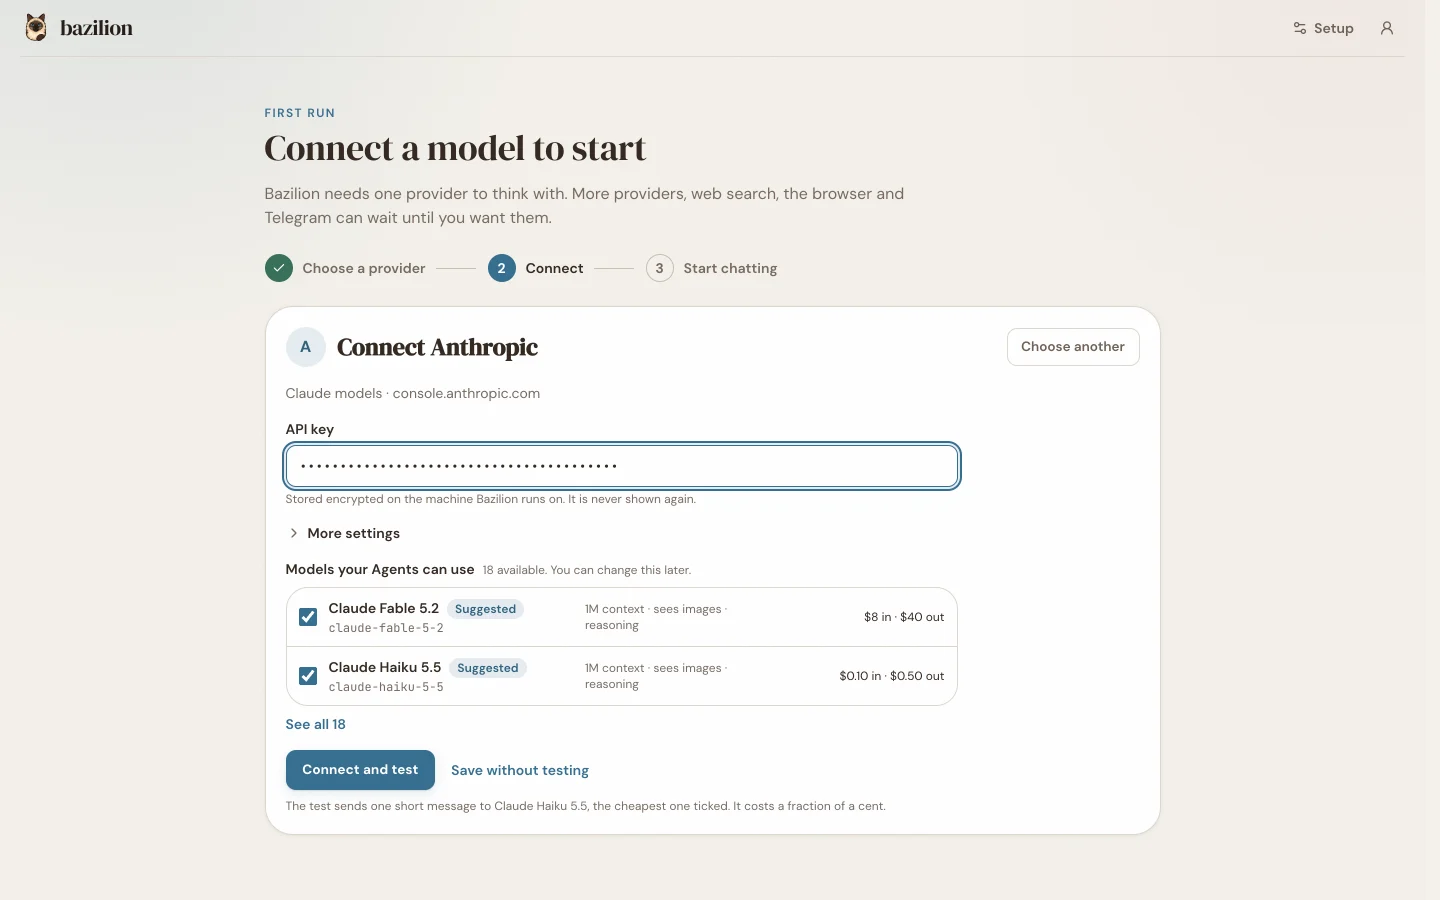
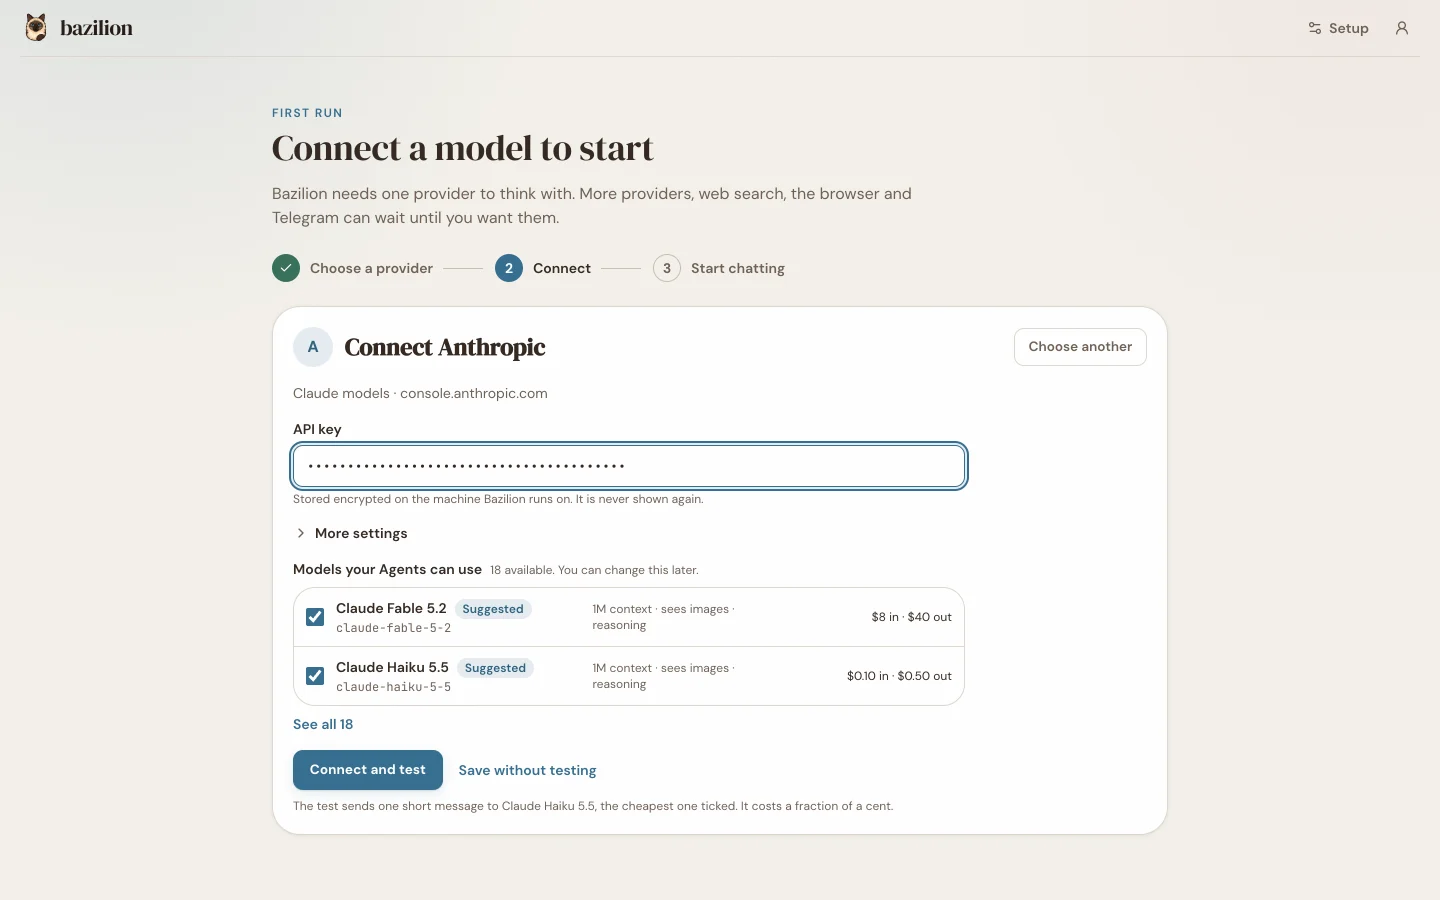
Bazilion 0.56.0: usage and cost, failed turns in Attention, conversation search
What's new gets 0.56.0 and drops 0.52.0; the current-release references move to 0.56.0; the
tour, Attention notifications, conversations, results and operations pages describe the new
features. Every product picture is taken again (grey text is darker), with two new ones:
usage and search.

diff --git a/src/content/docs/docs/whats-new.md b/src/content/docs/docs/whats-new.md
@@ -1,15 +1,81 @@
 ---
 title: What's new
-description: The latest four Bazilion releases, newest first; Bazilion 0.55.0 bundles Pi 1.6.0.
+description: The latest four Bazilion releases, newest first; Bazilion 0.56.0 bundles Pi 1.6.0.
 ---
 
 The latest four releases, newest first. Older releases are in
 [GitHub Releases](https://github.com/rullopat/bazilion/releases). Each section describes its own
 release; the rest of the documentation describes the current one.
 
+## Bazilion 0.56.0
+
+Published **2026-11-23**. Nothing goes wrong unnoticed: **Usage** shows what your Agents' model
+calls cost, per day, Team, Agent, model and conversation; a background turn that fails is in
+Attention; and **Jump to** searches your conversations. Checks on CI now compare pictures of the
+web UI and scan every page for accessibility, and what they found is fixed. The embedded Pi
+engine stays at 1.6.0. See the
+[GitHub release](https://github.com/rullopat/bazilion/releases/tag/v0.56.0) and
+[Usage in the web interface](/docs/web-interface/#manage).
+
+![Manage, Usage: $96.57 spent in the last 30 days, 23M tokens of which 5.8M on a subscription, a bar per day, and the totals by Team.](/screenshots/usage.webp)
+
+### Upgrade: install and start again
+
+The database schema is unchanged, so a 0.26, 0.27 or 0.50 to 0.55 home opens as it is. Stop the
+daemon, then:
+
+```sh
+npm install -g bazilion@0.56.0
+bazilion dashboard
+```
+
+Attention notifications in Telegram keep the kinds you chose: to be told about failed turns,
+tick **Failed background turns** under **Setup → Telegram**.
+
+### Added
+
+- **Usage and cost.** **Manage → Usage** and `bazilion usage` show tokens and dollars per day,
+  Team, Agent and model, for today, 7, 30 or 90 days or everything, with a bar per day you can
+  read with the arrow keys. Each conversation's use is under its title in the conversation menu
+  and in `bazilion conversation list`. The cost is what the provider billed when it says
+  (OpenRouter does), otherwise Pi's catalog price, marked as an estimate. A ChatGPT plan, Copilot
+  and the Qwen and Xiaomi MiMo token plans count in tokens only, as do models on your computer.
+- **Failed background turns in Attention.** A follow-up sent from the web, a terminal or
+  Telegram, or a turn for new mail, that fails is listed once per Agent and cause, so an expired
+  key is one line however many turns it stopped. A later failure of the same cause opens it again.
+- **Search your conversations.** Three characters or more in **Jump to** list the messages holding
+  every word, with the words marked; one opens its conversation at that message.
+  `bazilion conversation search` does the same in a terminal. A stored key is never found.
+- **When a schedule runs next**, in the Schedules sheet and `bazilion trigger list`.
+- **Text previews for every kind of text file** in Files, and a text file's first lines on its
+  tile. HTML and SVG stay download-only.
+
+![Jump to with "dark mode" typed: messages from Pixel, Quill, Dev and Mira that hold both words, each with its Agent and conversation.](/screenshots/search.webp)
+
+### Changed
+
+- **Easier to read and to use without a mouse.** Grey text is a step darker, and code and table
+  headers use the darker ink, so everything reaches 4.5:1 contrast. Controls say what they show
+  to a screen reader, buttons no longer sit inside fold-outs, and links among a row's facts are
+  underlined.
+- **Agent templates** cannot have a blank name.
+
+### Fixed
+
+- In the conversation header, a long conversation title no longer squeezes the Agent's name to
+  one letter.
+- Team messages sent in the same millisecond keep the order they were sent in.
+
+### Limits
+
+- Usage counts what conversations used: learning reviews, provider tests and generated images
+  are not counted, and a deleted Agent's use goes with it.
+- A failed turn for new mail is kept in the daemon's memory: a restart forgets it.
+- Search looks at what a conversation shows; tool output is not searched.
+
 ## Bazilion 0.55.0
 
-Published **2026-11-22**. What an Agent waits on now reaches you at once, and wherever you are.
+Published **2026-11-22**. What an Agent waits on came to reach you at once, and wherever you are.
 The web UI is pushed every change instead of asking every few seconds, so a question shows the
 moment it is asked. The browser can show a desktop notification when Bazilion is in the
 background, a command waiting for your approval can be decided from Telegram, and on a phone the
@@ -19,7 +85,7 @@ See the [GitHub release](https://github.com/rullopat/bazilion/releases/tag/v0.55
 
 ### Upgrade: install and start again
 
-The database schema is unchanged, so a 0.26, 0.27 or 0.50 to 0.54 home opens as it is. Stop the
+The database schema was unchanged, so a 0.26, 0.27 or 0.50 to 0.54 home opened as it was. Stop the
 daemon, then:
 
 ```sh
@@ -240,76 +306,3 @@ they had. The current commands are in [Upgrade to 0.26.0](/docs/getting-started/
 - The Teams list did not say whether a Team's folder links to a project.
 - The new pages were checked by hand and by script in Chrome on macOS with a stand-in model
   server; the automated tests covered their logic on Linux but did not drive a browser.
-
-## Bazilion 0.52.0
-
-Published **2026-11-21**. The Services page became **Tools**: one card per tool, settings that
-are checked before they are stored, and one Save per card. Model menus began to show names. The
-embedded Pi engine stayed at 1.5.2. See the
-[GitHub release](https://github.com/rullopat/bazilion/releases/tag/v0.52.0) and
-[setting the tools](/docs/tools/#setting-the-tools).
-
-![Setup, Tools: the Web search card with its five choices and a saved Brave key, the Web pages card and the Browser card with its switch and two choices.](/screenshots/tools.webp)
-
-### Upgrade: install and start again
-
-The database schema was unchanged, so a 0.26, 0.27, 0.50 or 0.51 home opened as it was. Stored
-settings were read as before. A value that an older version stored and the daemon cannot
-use, such as a mistyped mode, is pointed out on its card, and saving the card replaces it.
-Bookmarks of `/config/services`, `/config/tokens` and `/config/integrations/telegram` needed the
-new addresses. The current commands are in
-[Upgrade to 0.26.0](/docs/getting-started/#upgrade-to-0260).
-
-### Added
-
-- **Setup → Tools (`/config/tools`).** Web search, Web pages, Browser, Commands and Messages
-  between Agents are one card each, in place of 18 text boxes with a save button each. A setting
-  is entered as what it is: a choice with what each option means, a switch, a number in the unit
-  people use (minutes, not milliseconds), a key shown as saved.
-- **What is in effect.** A card says what the tool is doing now (`Using Brave`,
-  `On: a browser per Agent`, `Runs in Docker, asks first`) and what a choice would meet on this
-  machine before it is saved: a key that is missing, or whether Docker has the image. A setting
-  that only matters with another choice appears with it.
-- **One Save per card.** Every value is checked first, and when one is refused nothing of the
-  card is stored. A key is replaced or removed with the same Save.
-- **Model names in the menus.** The Agent tab, **Spawn an agent** and Agent templates choose a
-  model from a menu with names by provider, how much each reads and whether it sees images. A
-  provider that is not working is marked. The CLI and the API keep `provider:model`.
-- **CLI.** `bazilion config set NAME=value NAME=value` saves several settings together or none.
-  `config list` shows defaults, what is in effect for each tool and what each setting takes.
-
-![The Spawn an agent dialog with its model menu open: the template's model first, then models by provider with how much each reads and whether it sees images.](/screenshots/model-menu.webp)
-
-### Changed
-
-- Settings are checked before they are stored, by the page and by `bazilion config set`. A choice
-  must be one of its values, a switch `true` or `false` (`yes`, `no`, `on`, `off`, `1` and `0`
-  are stored as `true` or `false`), a number whole and in range, an address `http://` or
-  `https://`. A mistyped `BAZILION_BASH_APPROVAL` used to be stored and then failed every turn.
-- The Setup tabs are Models, Tools, MCP, Telegram, Access and System. `/config/tools`,
-  `/config/telegram` and `/config/access` replace `/config/services`,
-  `/config/integrations/telegram` and `/config/tokens`, which are not redirected.
-- `GET /api/config/services` and `GET /api/config/available-models` are gone: use
-  `GET /api/config/tools` and the `chat` list of `GET /api/config/models`. Setting names are
-  unchanged.
-
-### Fixed
-
-- **Changes sees a file rewritten in the second it was staged.** A file rewritten at the same
-  size within the second it was staged could go unseen in Changes and in a review until it was
-  touched again.
-- **The browser's first start has 60 s instead of 15.** A first start from a cold disk on a small
-  or busy machine could take longer than the old limit.
-- **A tool call cut short by a lost MCP session says "MCP session expired"** whichever request
-  noticed first; it could say "MCP connection closed".
-- **A conversation renamed in the millisecond it was created keeps its name** when the first
-  message arrives.
-
-### Limits
-
-- Telegram and MCP keep their own pages and forms.
-- Outside the menus a model is still shown by its id: template lists, the conversation header
-  and the CLI.
-- Docker is asked whether it has the image each time the Tools page opens, for at most 3 s.
-- The new pages were checked by hand in Chrome on macOS with a stand-in model server. The
-  automated tests cover their logic on Linux but do not drive a browser.

diff --git a/src/content/docs/docs/operations.md b/src/content/docs/docs/operations.md
@@ -38,7 +38,8 @@ bazilion trigger history <trigger-id>
 bazilion trigger disable <trigger-id>
 ```
 
-On the web, open **Schedules** in the Agent's side panel. Each occurrence runs at most once and
+On the web, open **Schedules** in the Agent's side panel; it and `bazilion trigger list` say when
+each schedule runs next. Each occurrence runs at most once and
 is never retried: a busy Agent leaves it pending, then it ends succeeded, failed or cancelled. The
 history shows each run with its real error, and a failure also shows in Attention. Disabling a
 trigger stops future runs, not a turn that is already running.
@@ -48,8 +49,9 @@ trigger stops future runs, not a turn that is already running.
 **Attention** lists what needs you. First what an Agent is waiting on right now: a
 [question](/docs/questions/) it asked and a command waiting for your approval, soonest to expire
 first, each with the time it stops waiting. Then lesson proposals, failed or cancelled learning
-reviews, failed triggers, stopped Agent message loops and Agent queues paused after a daemon
-restart. Open the **Attention** page (the count in the top bar stays current, and the browser tab
+reviews, failed triggers, stopped Agent message loops, Agent queues paused after a daemon
+restart, and background turns that failed (a follow-up or a turn for new mail, one item per Agent
+and cause). Open the **Attention** page (the count in the top bar stays current, and the browser tab
 counts what waits for you) or:
 
 ```sh
@@ -59,7 +61,8 @@ bazilion attention acknowledge <key> --yes
 bazilion attention acknowledge-all --yes
 ```
 
-Acknowledging a failure or loop break records that you saw it; it repairs nothing. Questions,
+Acknowledging a failure or loop break records that you saw it; it repairs nothing. A failed
+background turn opens again when another fails for the same cause. Questions,
 commands, proposals and paused queues leave the list when you act on them; a question or a command
 also leaves it when it stops waiting, or when the daemon restarts. Attention items can also go to Telegram; see
 [Attention notifications](/docs/attention-notifications/).

diff --git a/src/content/docs/docs/attention-notifications.md b/src/content/docs/docs/attention-notifications.md
@@ -5,7 +5,7 @@ description: Send new Attention items to the Telegram bot's service topic, by ki
 
 **Attention** lists what needs you: an Agent's questions and commands waiting for approval, lesson
 proposals, failed or cancelled learning reviews, failed scheduled triggers, stopped Agent message
-loops and Agent queues paused after a daemon restart (see
+loops, Agent queues paused after a daemon restart, and failed background turns (see
 [Daily operations](/docs/operations/#attention)). Bazilion can post new items to the
 [Telegram](/docs/telegram/) bot's service topic, so they reach your phone. This is off by default.
 Questions and commands waiting for approval are not posted here: they go to the Agent's own topic
@@ -15,6 +15,18 @@ Questions and commands waiting for approval are not posted here: they go to the 
 Each new open item of a selected kind is sent once, with its title, Agent and Team. When the web UI
 is published at `BAZILION_PUBLIC_ORIGIN` the notice links to the item; otherwise open
 **Attention** in the web UI. A notice resolves nothing.
+
+## Failed background turns
+
+A turn nobody was watching can fail where you would not see it: a follow-up sent from the web, a
+terminal or Telegram, or a turn an Agent ran for new mail. Attention lists them as one item per
+Agent and cause, so an expired key or a rate limit is one line however many turns it stopped,
+with what the provider said. **Acknowledge** sets it aside; a later failure of the same cause opens
+it again. Retrying or removing the failed follow-ups takes them off. Turns for new mail are kept in
+the daemon's memory, so a restart forgets them.
+
+They can be sent to Telegram like the other kinds: tick **Failed background turns**. A choice of
+kinds saved before 0.56.0 does not include them.
 
 ## Configure
 

diff --git a/src/content/docs/docs/conversations.md b/src/content/docs/docs/conversations.md
@@ -34,6 +34,23 @@ conversation to continue. Nothing recreates or replaces a missing history.
 Editing the last message in the web chat is refused when the Agent has switched to another
 conversation since the page loaded; reload and try again.
 
+## Search
+
+Search finds the messages, yours and the Agents' replies, that hold every word you give, in every
+Agent's conversations, newest first. It looks at what a conversation shows: tool output and
+anything a summary replaced are not searched. A stored key is never found, and is taken out of
+what a result shows.
+
+- **Web:** type three characters or more in **Jump to** (⌘K or Ctrl+K). **In conversations** lists
+  the messages found, with the words marked; opening one shows its conversation at that message.
+- **CLI:** `bazilion conversation search "launch email" [--agent <id or name>] [--limit 20]
+  [--json]` prints each message's Agent, conversation and time, the text around the words, and
+  the command that shows the whole conversation.
+
+Each conversation's use (tokens, and cost for a provider paid per use) is under its title in the
+conversation menu and in `bazilion conversation list`; **Manage → Usage** adds them up
+([the web interface](/docs/web-interface/#manage)).
+
 ## Compact and context
 
 - `/compact` in the web chat, or `bazilion agent chat-compact <agent>`, summarises older messages

diff --git a/src/content/docs/docs/getting-started.md b/src/content/docs/docs/getting-started.md
@@ -82,8 +82,9 @@ bazilion agent chat <agent-id> --message "say hi"
 There are no database migrations. A release opens a home only when its schema matches the one it
 ships; otherwise the daemon refuses to start and leaves the home untouched.
 
-**From 0.26, 0.27, 0.50, 0.51, 0.52, 0.53 or 0.54:** 0.55.0 uses the same schema, so the home
-opens as it is. Stop the daemon, run `npm install -g bazilion@0.55.0` and start Bazilion again. Coming from 0.26 or
+**From 0.26, 0.27, 0.50, 0.51, 0.52, 0.53, 0.54 or 0.55:** 0.56.0 uses the same schema, so the
+home opens as it is. Stop the daemon, run `npm install -g bazilion@0.56.0` and start Bazilion
+again. Coming from 0.26 or
 0.27, the web UI is laid out anew: see the [tour of the web interface](/docs/web-interface/).
 Coming from 0.50 or earlier, providers you had switched on keep working and read "Not tested yet"
 under **Setup → Models** until their first test.
@@ -103,7 +104,7 @@ current release:
    removes them too.
 
    ```sh
-   npm install -g bazilion@0.55.0
+   npm install -g bazilion@0.56.0
    bazilion uninstall --yes
    ```
 

diff --git a/src/content/docs/docs/results.md b/src/content/docs/docs/results.md
@@ -30,8 +30,11 @@ deleting the workspace file does not change it.
 
 - **Telegram:** a bound Agent's delivered files are sent to its topic as documents.
 
-Previews show plain text and Markdown up to 256 KiB as text, and PNG, JPEG, GIF and WebP images up
-to 10 MiB. Everything else, HTML and SVG included, is download-only.
+Previews show text up to 256 KiB as text: a text type (Markdown, CSV, JSON, YAML, XML…), or a
+file delivered without one whose name says text (`.py`, `.ts`, `.sh`, `.log`, `.toml` and the
+like), as long as it is UTF-8. A text file's tile in the Files view shows its first lines. PNG,
+JPEG, GIF and WebP images are shown up to 10 MiB. Everything else, HTML and SVG included, is
+download-only.
 
 In a zip, files keep their names and the order they were saved in; a second file of the same name
 becomes `name (2).ext`. The zip is not compressed, and a selection larger than 512 MiB is refused.

diff --git a/src/content/docs/docs/concepts.md b/src/content/docs/docs/concepts.md
@@ -12,7 +12,7 @@ Bazilion is built on
 [Pi's coding agent](https://www.npmjs.com/package/@earendil-works/pi-coding-agent). Pi runs the
 turn loop and the provider calls, compacts history and writes the JSONL transcript under each
 Agent's `sessions/` directory. Bazilion supplies Agents and Teams, credentials, the tool list, the
-worker processes and the long-lived browser and MCP connections. Version 0.55.0 bundles Pi 1.6.0,
+worker processes and the long-lived browser and MCP connections. Version 0.56.0 bundles Pi 1.6.0,
 with Pi's own discovery of extensions, skills, prompt templates and context files switched off.
 
 ## Profiles (Agent templates)

diff --git a/src/content/docs/docs/configuration.md b/src/content/docs/docs/configuration.md
@@ -10,7 +10,7 @@ CLI and the web UI are clients of its HTTP API.
 
 Models are written `provider:model`, for example `anthropic:claude-fable-5-2`,
 `openai-codex:gpt-6.2-sol` or `lmstudio:my-loaded-model`. Model ids come from Pi's bundled
-catalog; Bazilion 0.55.0 bundles Pi 1.6.0. An id that is not in the catalog is refused as
+catalog; Bazilion 0.56.0 bundles Pi 1.6.0. An id that is not in the catalog is refused as
 "Unknown model" unless the provider has an endpoint you configured, so a typo never sends a key to
 another vendor.
 
